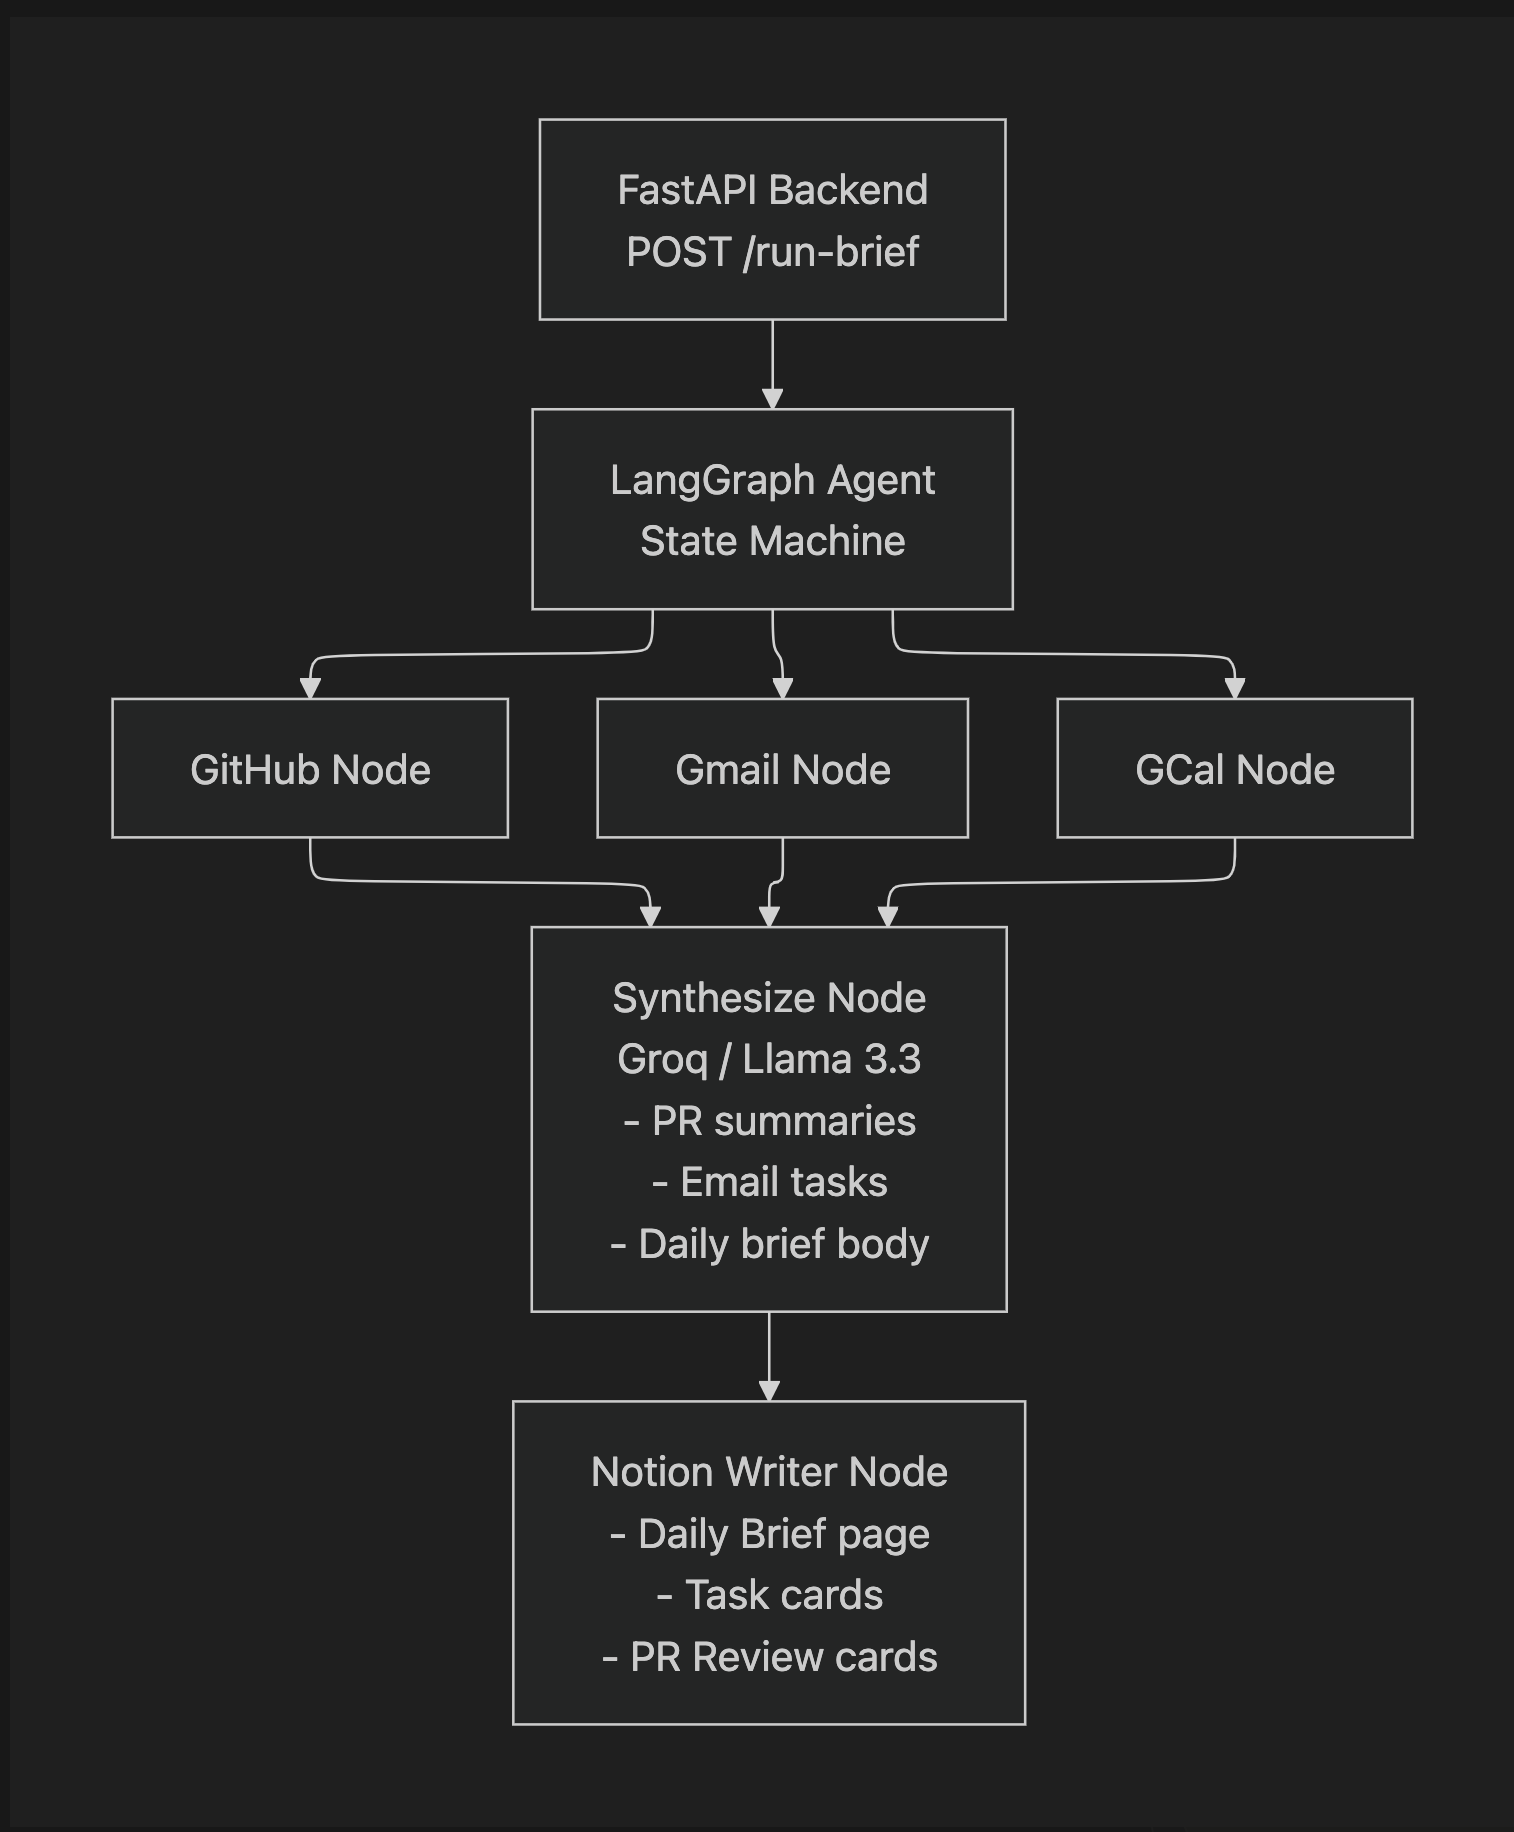
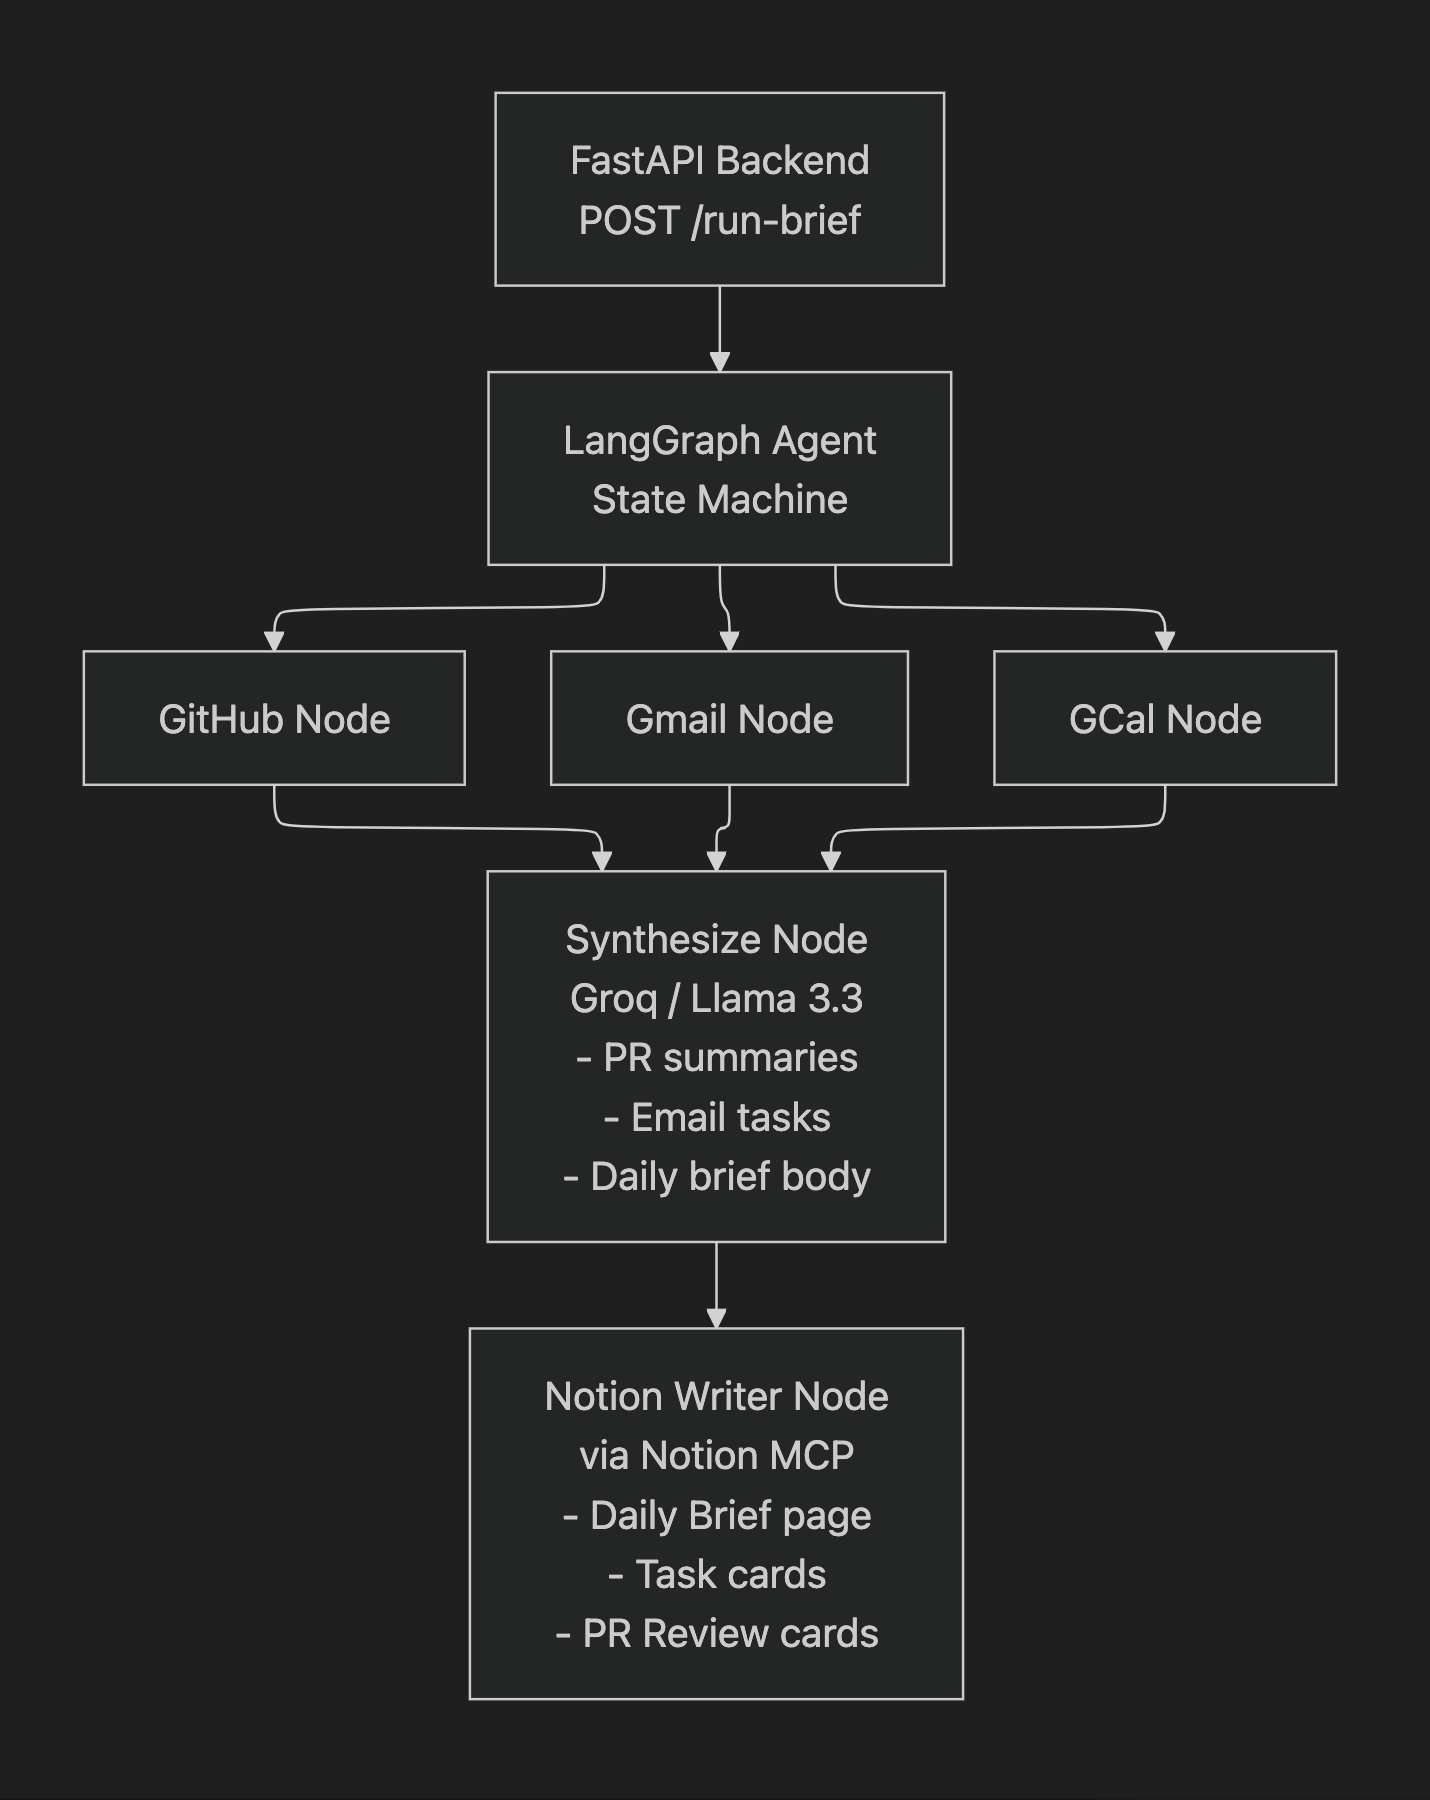
Update README.md to enhance clarity and detail, including email count and MCP server installation instructions; update flow diagram.

diff --git a/README.md b/README.md
@@ -12,16 +12,18 @@
 ![Groq](https://img.shields.io/badge/Groq_Llama_3.3-F55036?style=flat-square)
 
 ## The problem
-As an opensource contributor waking up and getting up to date with your development work mostly involves opening multiple tabs by visiting different app, Gmail, GitHub, google calendar etc.
+As an open source contributor, getting up to speed every morning mostly involves opening multiple tabs across different app, Gmail, GitHub, google calendar  before you've written a single line of code.
+
 A typical morning would go like this:
-- 15 unread emails — decide which ones actually need a reply?
+- 29 unread emails — decide which ones actually need a reply?
 - 3 open PRs across 2 repos — which one is blocking someone?
 - 4 meetings — did you prep for the 9am standup?
 - 6 assigned issues — which one is P0?
 
 ## The Solution
 Notion Os helps solve this hustle!
-Notion Os is a multi-agent pipeline that sweeps across your GitHub, Gmail and Google calendar, synthesizes everything with AI and writes a fully structured briefing into your Notion Workspace
+Notion Os is a multi-agent pipeline that sweeps across your GitHub, Gmail and Google calendar, synthesizes everything with AI and writes a fully structured briefing into your Notion Workspace before you've have your first coffee.
+
 
 **Three things get written to Notion on every run.**
 
@@ -43,7 +45,7 @@ Notion Os is a multi-agent pipeline that sweeps across your GitHub, Gmail and Go
 | GitHub Data | GitHub REST API |
 | Email Data | Gmail API (OAuth) |
 | Calendar Data | Google Calendar API (OAuth) |
-| Notion Output | Notion MCP + `notion-client` |
+| Notion Output | [Notion MCP](https://developers.notion.com) via `mcp` Python client |
 | Backend | FastAPI + Python 3.11+ |
 | Frontend | Vanilla HTML/CSS/JS |
 
@@ -52,6 +54,7 @@ Notion Os is a multi-agent pipeline that sweeps across your GitHub, Gmail and Go
 
 ```bash
 python --version   # 3.11+
+node --version #18+ (for Notion MCP Server)
 ```
 
 ### 1. Clone the Repo
@@ -66,6 +69,7 @@ python -m venv .venv
 source .venv/bin/activate 
 
 pip install -r requirements.txt
+npm install -g @notionhq/notion-mcp-server
 ```
 
 ### 3. Set up enviroment Variables
